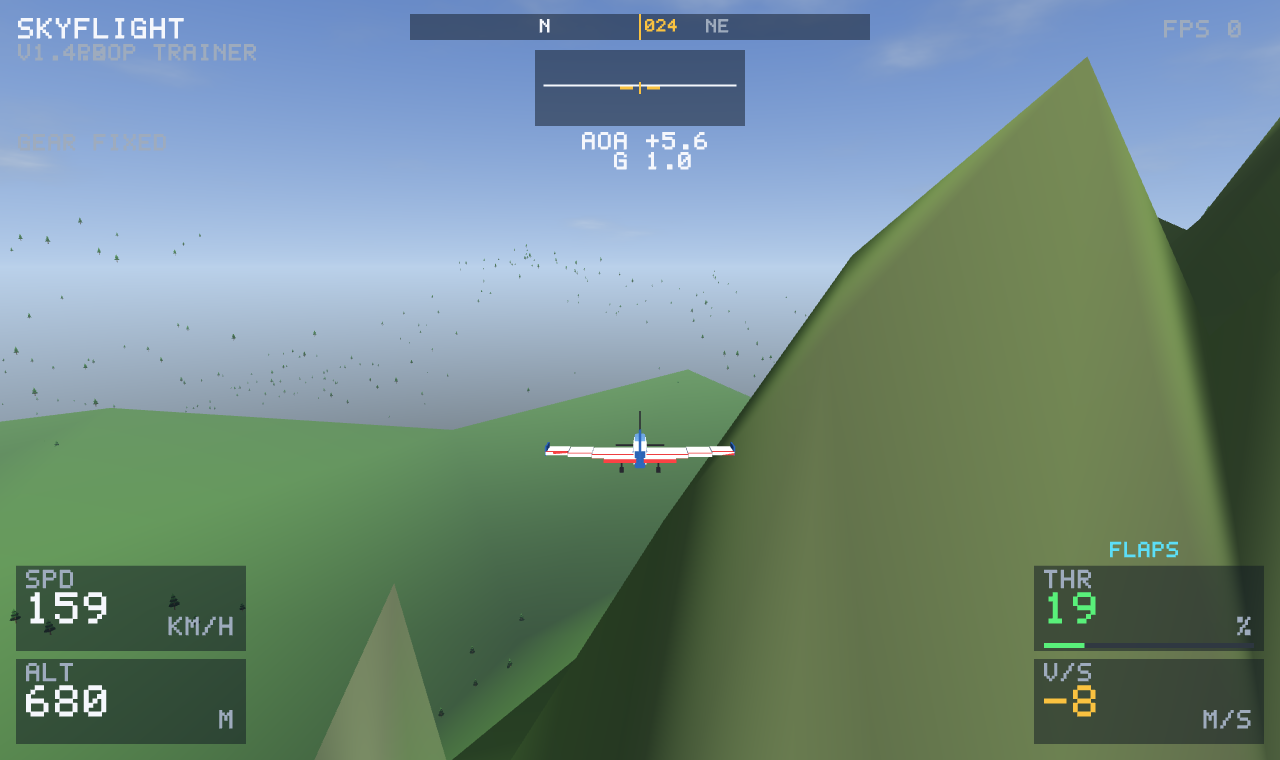
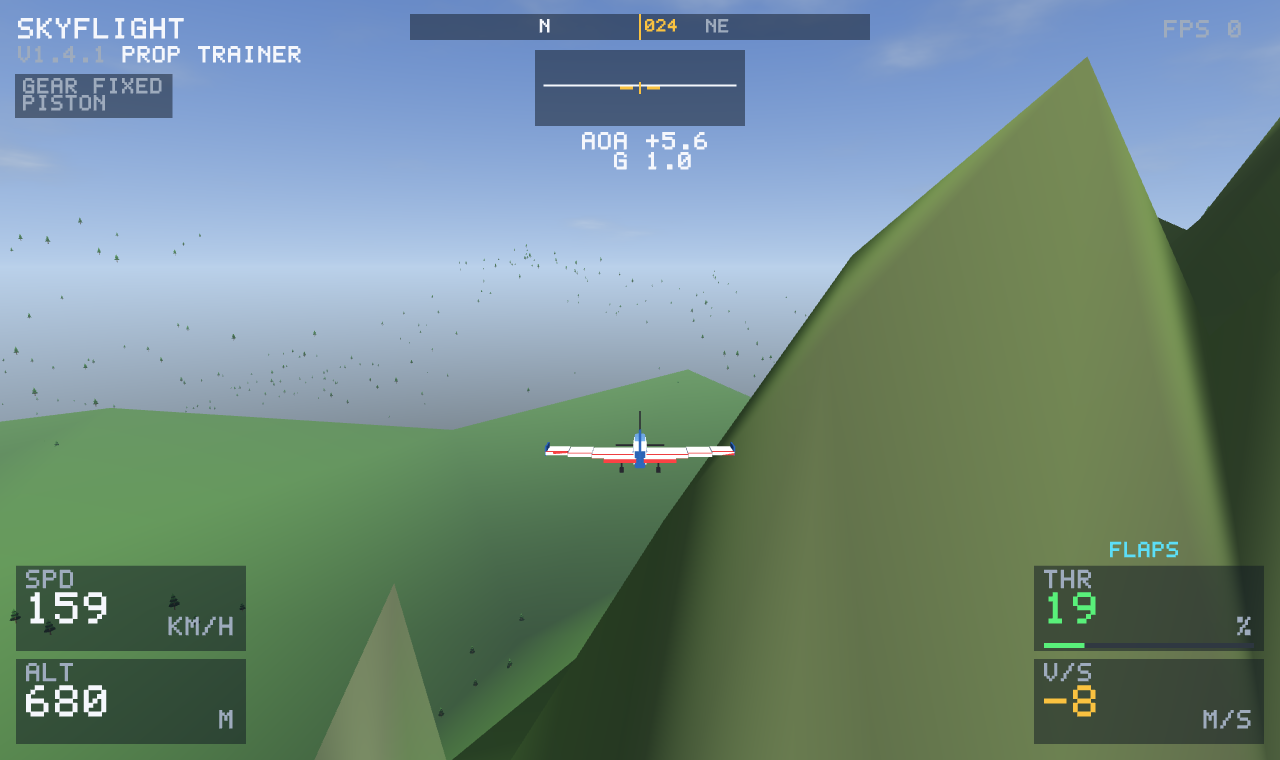
SkyFlight v1.4.1 — fix the overlapping HUD labels
Fixed
- The version number and the aircraft name overlapped in the top-left corner.
  The aircraft name was drawn at a hard-coded x offset, but "V1.4.0" is
  actually 90.5 px wide, so the two strings ran into each other and rendered
  as "V1.4ROP TRAINER". The layout now accumulates measured text widths with a
  14 px gap between fields.
- New tests/hud_layout.py asserts, for all three aircraft, that the version
  and name fields do not overlap, that the block does not collide with the
  compass tape, that it stays on screen, and that every gear state
  (DOWN / UP / nn%) renders with no GL error.

Changed
- The gear / engine status block in the top-left now sits on a translucent
  panel so it stays legible against a bright sky.
- GEAR UP is cyan instead of grey; the block also shows TURBOJET or PISTON.

Verified: HUD layout check, 10/10 flight physics, aircraft check, spawn check
for all three types, new key paths, 4/4 end-to-end flight, smoke test, key
bindings, fullscreen/version/compass, docs encoding.

Changed region(s): [[0.0, 0.0605, 0.25, 0.2118]]

diff --git a/skyflight/hud.py b/skyflight/hud.py
@@ -350,30 +350,47 @@ def draw_hud(hud, shader, craft, screen_w, screen_h, fps=0.0):
     # ---------------- 右上：FPS
     hud.text('FPS %d' % int(fps), screen_w - pad - 100, pad + 4, 17, DIM)
 
-    # ---------------- 左上角：游戏名 + 版本号 + 机型（空白区，不会被切）
-    hud.text('SKYFLIGHT', pad + 2, pad + 2, 20, WHITE)
-    hud.text('V%s' % VERSION, pad + 2, pad + 28, 16, DIM)
+    # ---------------- 左上角：游戏名 / 版本号 + 机型 / 起落架状态
+    # 排版用实测文字宽度累加，不要再手写 x 偏移（之前把机型名写死在
+    # pad+62，而 "V1.4.0" 实际有 90.5 px 宽，两段就叠在一起了）。
+    lx = pad + 2
+    hud.text('SKYFLIGHT', lx, pad + 2, 20, WHITE)
+
+    ny = pad + 30
+    vtxt = 'V%s' % VERSION
+    hud.text(vtxt, lx, ny, 16, DIM)
+    vw = hud.text_width(vtxt, 16)
+
     sp = getattr(craft, 'spec', None)
     if sp is not None:
         name = sp.name_en.upper()
-        hud.text(name, pad + 62, pad + 28, 16,
-                 CYAN if sp.kind == 'jet' else DIM)
+        hud.text(name, lx + vw + 14, ny, 16,
+                 CYAN if sp.kind == 'jet' else WHITE)
 
-    # ---------------- 机型/起落架状态（在罗盘下方左侧）
+    # 机型特征 / 起落架状态：单独一行，带半透明底板，亮天空下也看得清
     if sp is not None:
-        iy = pad + 118
+        iy = pad + 62
+        lines = []
         if sp.gear_retract:
             g = craft.gear
             if g > 0.99:
-                gt, gc = 'GEAR DOWN', GREEN
+                lines.append(('GEAR DOWN', GREEN))
             elif g < 0.01:
-                gt, gc = 'GEAR UP', DIM
+                lines.append(('GEAR UP', CYAN))
             else:
-                gt, gc = 'GEAR %d%%' % int(g * 100), AMBER
-            hud.text(gt, pad + 2, iy, 16, gc)
+                lines.append(('GEAR %d%%' % int(g * 100), AMBER))
         else:
-            hud.text('GEAR FIXED', pad + 2, iy, 16, DIM)
+            lines.append(('GEAR FIXED', DIM))
         if sp.kind == 'jet':
-            hud.text('JET', pad + 2, iy + 20, 16, DIM)
+            lines.append(('TURBOJET', DIM))
+        else:
+            lines.append(('PISTON', DIM))
+
+        # 底板尺寸按最长那行算
+        bw = max(hud.text_width(t, 15) for t, _ in lines) + 16
+        bh = 17 * len(lines) + 10
+        hud.rect(lx - 3, iy - 4, bw, bh, BG)
+        for i, (t, col) in enumerate(lines):
+            hud.text(t, lx + 5, iy + i * 17, 15, col)
 
     hud.commit(screen_w, screen_h, shader)

diff --git a/tests/hud_layout.py b/tests/hud_layout.py
@@ -1,0 +1,74 @@
+# -*- coding: utf-8 -*-
+"""
+左上角 HUD 排版检查
+
+要保证：
+  1. 版本号和机型名不重叠（之前的 bug）
+  2. 三段文字都在屏幕范围内，且不压到中间的罗盘
+  3. 起落架的三种状态（DOWN / UP / 收起中）都能正确显示
+"""
+import sys
+import os
+
+sys.path.insert(0, os.path.dirname(os.path.dirname(os.path.abspath(__file__))))
+
+import glfw
+import numpy as np
+from OpenGL import GL
+from PIL import Image
+
+from skyflight import app as appmod, specs
+
+OUT = r'C:\DEEPSEEK工作区\飞行模拟\shots'
+ok = True
+
+
+def check(name, cond, detail=''):
+    global ok
+    if cond:
+        print('  [OK] %-24s %s' % (name, detail))
+    else:
+        ok = False
+        print('  [FAIL] %-24s %s' % (name, detail))
+
+
+print('  左上角文字排版（按实测宽度算）:')
+for sp in specs.CATALOG:
+    g = appmod.SkyFlightApp(aircraft_key=sp.key)
+    g.init_gl()
+    hud = g.hud
+    lx = 12 + 2
+    vw = hud.text_width('V1.4.0', 16)
+    nw = hud.text_width(sp.name_en.upper(), 16)
+    v_end = lx + vw
+    n_start = lx + vw + 14
+    n_end = n_start + nw
+    print('     %-11s V 段 %6.1f~%6.1f   机型段 %6.1f~%6.1f' % (
+        sp.key, lx, v_end, n_start, n_end))
+    check('%s 版本与机型不重叠' % sp.key, n_start > v_end + 4,
+          '间隔 %.1f px' % (n_start - v_end))
+
+    # 罗盘左边缘：draw_hud 里 cw = min(460, screen_w*0.36)
+    w, h = glfw.get_framebuffer_size(g.window)
+    cw = min(460.0, w * 0.36)
+    c_left = w * 0.5 - cw * 0.5
+    check('%s 不压到罗盘' % sp.key, n_end < c_left,
+          '机型段右端 %.0f < 罗盘左端 %.0f' % (n_end, c_left))
+    check('%s 在屏幕内' % sp.key, n_end < w)
+
+    # 起落架三种状态都要能画出来
+    for gear, expect in ((1.0, 'GEAR DOWN'), (0.0, 'GEAR UP'), (0.5, 'GEAR 50%')):
+        g.craft.gear = gear
+        try:
+            g.draw()
+            err = GL.glGetError()
+            check('%s gear=%.1f 渲染' % (sp.key, gear), err == 0,
+                  '%s (GL错误 %d)' % (expect, err))
+        except Exception as e:
+            check('%s gear=%.1f 渲染' % (sp.key, gear), False, str(e))
+    g.craft.gear = 1.0
+    glfw.terminate()
+
+print()
+print('  HUD 排版检查: %s' % ('全部通过' if ok else '有失败项'))
+sys.exit(0 if ok else 1)

diff --git a/skyflight/version.py b/skyflight/version.py
@@ -1,5 +1,5 @@
 # -*- coding: utf-8 -*-
 """版本号（改这里同时更新窗口标题、游戏内显示、启动画面）"""
 
-VERSION = '1.4.0'
+VERSION = '1.4.1'
 BUILD_DATE = '2026-10-03'

diff --git a/CHANGELOG.md b/CHANGELOG.md
@@ -1,5 +1,25 @@
 # Changelog
 
+## v1.4.1 — 2026-10-03
+
+### Fixed
+
+- **The version number and the aircraft name overlapped in the top-left
+  corner.** The aircraft name was drawn at a hard-coded `pad + 62`, but
+  `V1.4.0` is actually 90.5 px wide, so the two strings ran into each other
+  (`V1.4ROP TRAINER`). The layout now accumulates measured text widths with a
+  14 px gap, and `tests/hud_layout.py` asserts no overlap, no collision with
+  the compass, and that every gear state renders without GL errors.
+
+### Changed
+
+- The gear / engine status block in the top-left now sits on a translucent
+  panel, so it stays legible against a bright sky. It reads `GEAR DOWN` /
+  `GEAR UP` / `GEAR nn%` plus `TURBOJET` or `PISTON`. `GEAR UP` is now cyan
+  rather than grey.
+
+---
+
 ## v1.4.0 — 2026-10-03
 
 ### Added
